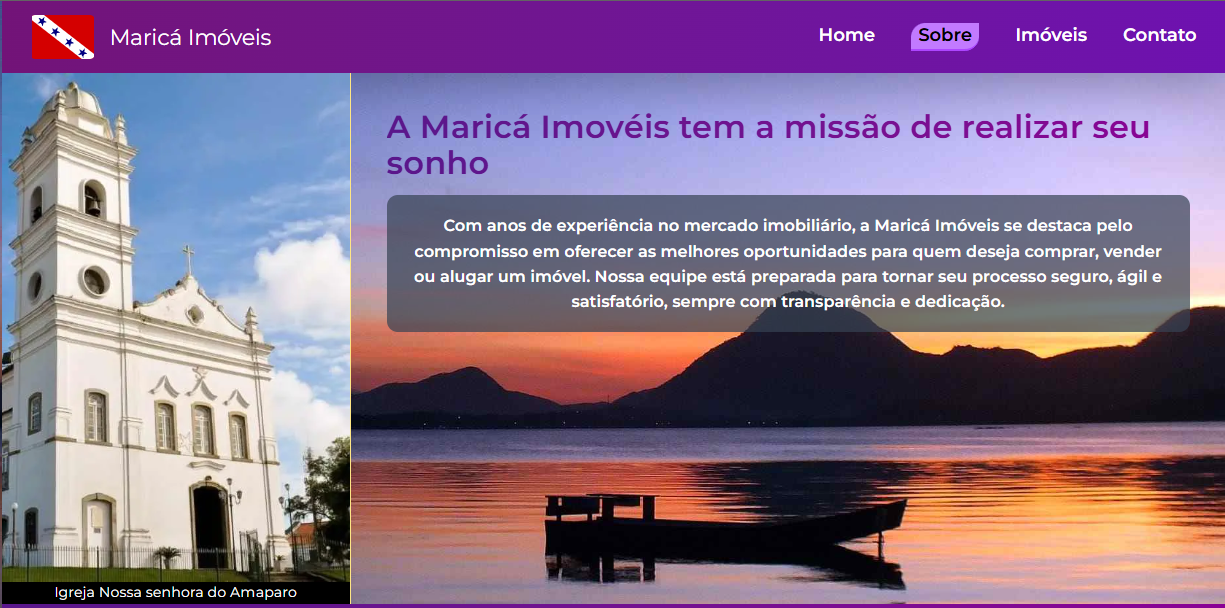
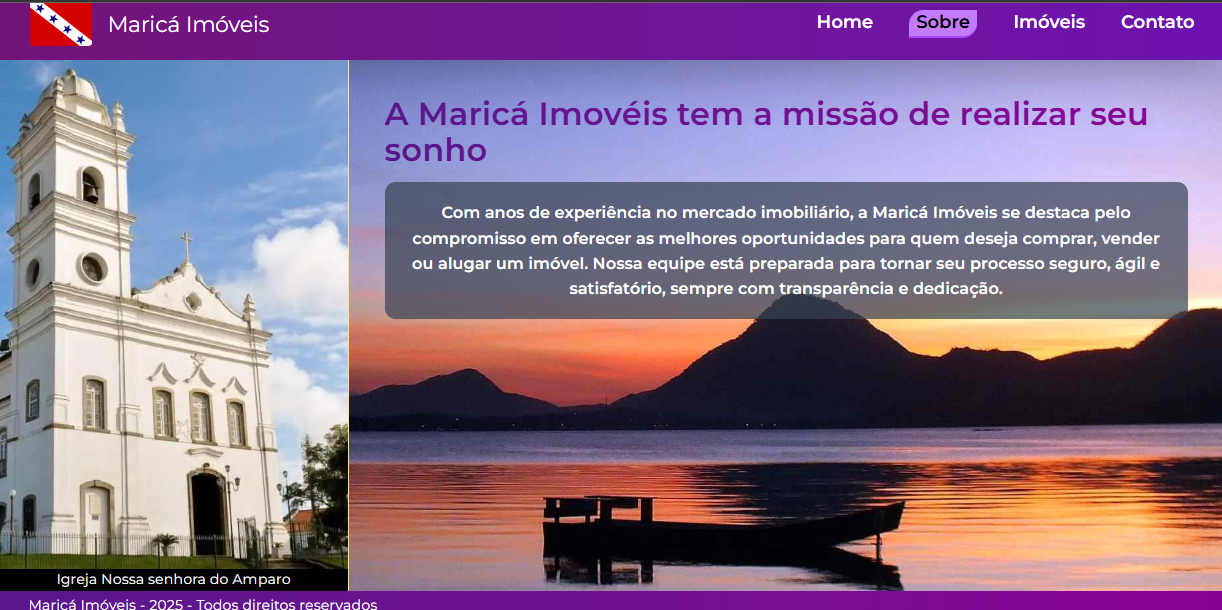
fix: correct spelling in About page figcaption and update image asset

diff --git a/app/sobre/page.tsx b/app/sobre/page.tsx
@@ -6,7 +6,7 @@ export default function About() {
     <main className="flex text-white">
       <figure className="w-full xl:w-[400px] h-full border-r-2 border-r-amber-200">
         <Image src={amparo} alt="igreja nossa senhora do amparo" />
-        <figcaption className='bg-black text-center'>Igreja Nossa senhora do Amaparo</figcaption>
+        <figcaption className='bg-black text-center'>Igreja Nossa senhora do Amparo</figcaption>
       </figure>
       <div className='flex flex-col gap-4 w-[1000px] px-5 py-5 xl:px-10 xl:py-10'>
         <h1 className="text-4xl font-semibold bg-gradient-to-r from-purple-900 to-fuchsia-800 bg-clip-text text-transparent">
